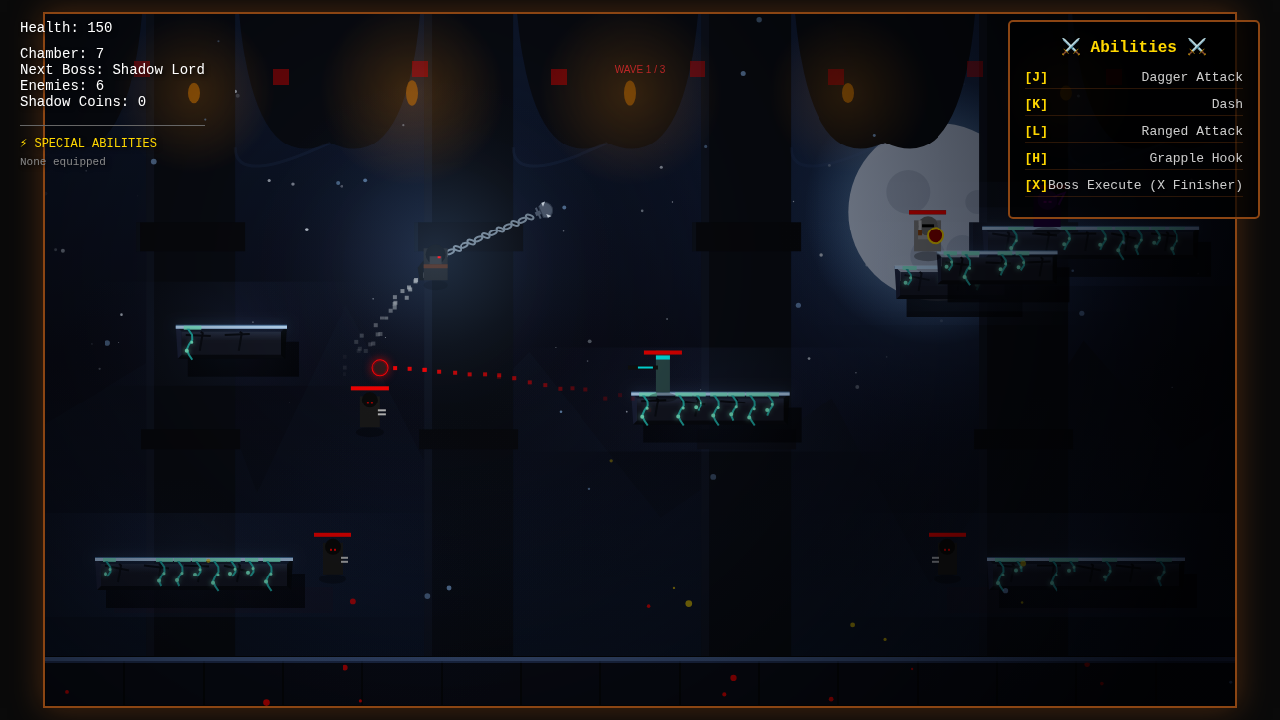
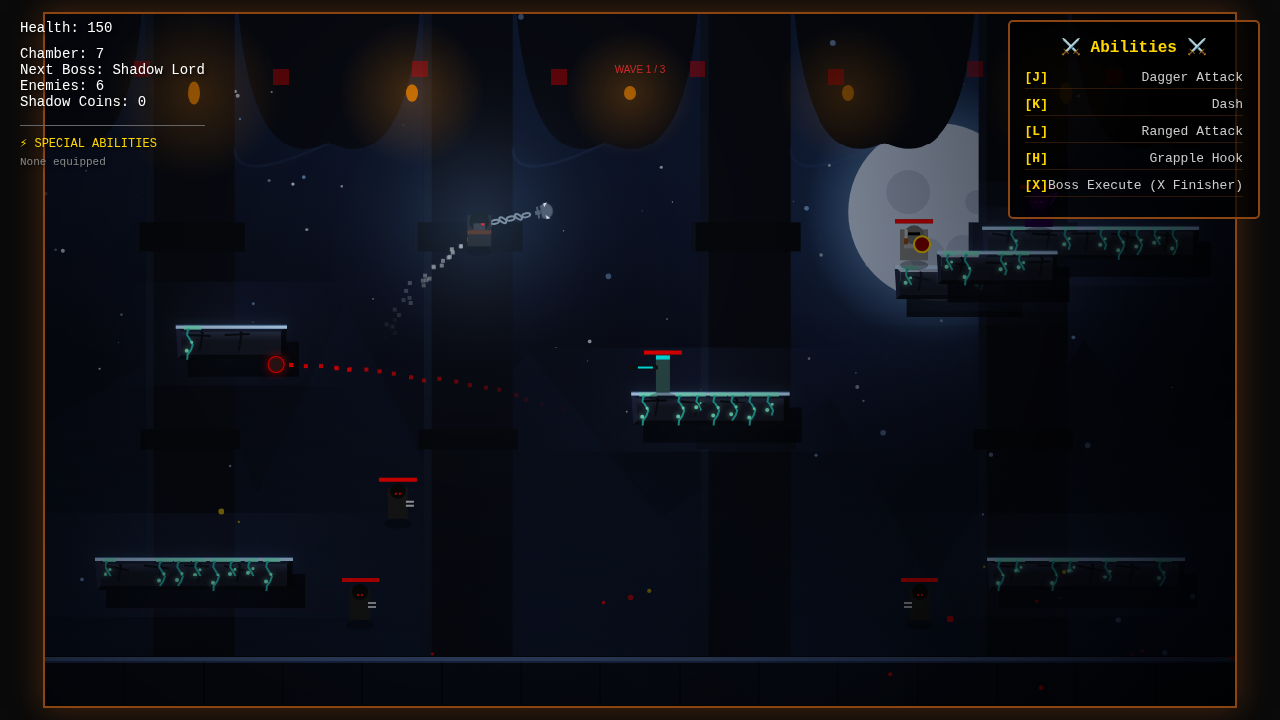
fix: Resolve crash in wave room and apply dynamic lighting
* Update `isWaveRoomNumber` logic to match recent changes.
* Replace `this.seededRandom()` with `Math.random()` in wave spawning
  logic to prevent undefined method crashes upon entering wave rooms.
* Add `drawDynamicLighting()` function to `gameLoop` for hit stop
  effects and player illumination.

diff --git a/games/shadow-assassin-safe-rooms.html b/games/shadow-assassin-safe-rooms.html
@@ -7950,7 +7950,7 @@
 
         function isWaveRoomNumber(roomNum) {
             // Wave rooms randomly but at least once every 10 rooms (using 7th slot)
-            return roomNum > 0 && roomNum % 10 === 7 && !isSafeRoomNumber(roomNum) && !isBossRoomNumber(roomNum);
+            return roomNum > 0 && roomNum % 10 === 7 && !(roomNum % 6 === 0) && !(roomNum % 5 === 0);
         }
 
         // Room class (keeping original castle look)
@@ -8279,7 +8279,7 @@
                             const thematicPool = BOSS_MINION_POOLS[this.upcomingBossType] || ['standard', 'advanced', 'heavy'];
 
                             for (let i = 0; i < numEnemies; i++) {
-                                const typeRoll = this.seededRandom();
+                                const typeRoll = Math.random();
                                 let type;
                                 // Increase difficulty based on wave
                                 const advancedChance = 0.5 - (this.currentWave * 0.1);
@@ -8294,7 +8294,7 @@
                                 }
 
                                 // Random spawn point on the ground
-                                const spawnX = 100 + this.seededRandom() * (canvas.width - 200);
+                                const spawnX = 100 + Math.random() * (canvas.width - 200);
                                 this.enemies.push(new Enemy(
                                     spawnX,
                                     canvas.height - 90,
@@ -10094,6 +10094,36 @@
         });
         
         // Game loop
+
+        function drawDynamicLighting() {
+            // Apply vignette and hit stop effects
+            ctx.fillStyle = 'rgba(0, 0, 0, 0.5)';
+            ctx.fillRect(0, 0, canvas.width, canvas.height);
+
+            if (hitStopFrames > 0) {
+                const intensity = Math.min(hitStopFrames / 5, 1);
+                ctx.fillStyle = `rgba(255, 255, 255, ${intensity * 0.3})`;
+                ctx.fillRect(0, 0, canvas.width, canvas.height);
+            }
+
+            // Draw player light
+            if (!gameOver && gameStarted) {
+                const gradient = ctx.createRadialGradient(
+                    player.x, player.y, 0,
+                    player.x, player.y, 150
+                );
+                gradient.addColorStop(0, 'rgba(255, 255, 255, 0.2)');
+                gradient.addColorStop(1, 'rgba(255, 255, 255, 0)');
+
+                ctx.fillStyle = gradient;
+                ctx.globalCompositeOperation = 'lighter';
+                ctx.beginPath();
+                ctx.arc(player.x, player.y, 150, 0, Math.PI * 2);
+                ctx.fill();
+                ctx.globalCompositeOperation = 'source-over';
+            }
+        }
+
         function gameLoop(now = performance.now()) {
             const frameDelta = Math.min(MAX_FRAME_DELTA_MS, Math.max(0, now - lastFrameTime));
             lastFrameTime = now;
@@ -10136,6 +10166,7 @@
 
                     player.draw();
                     drawExecutionCinematic();
+                    drawDynamicLighting();
                     continue;
                 }
             
